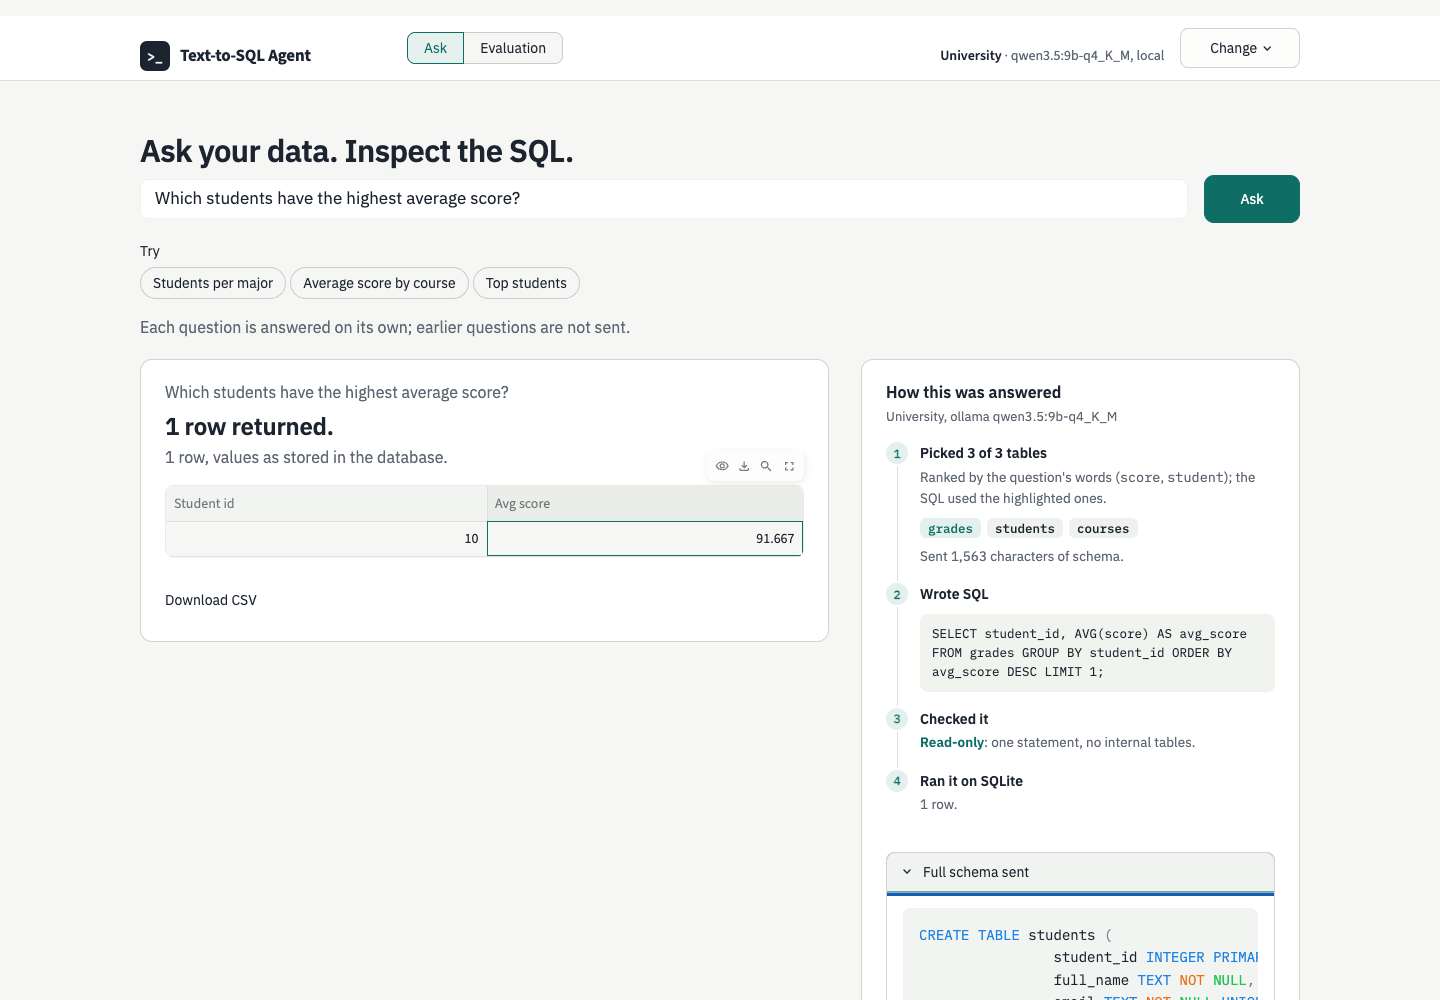
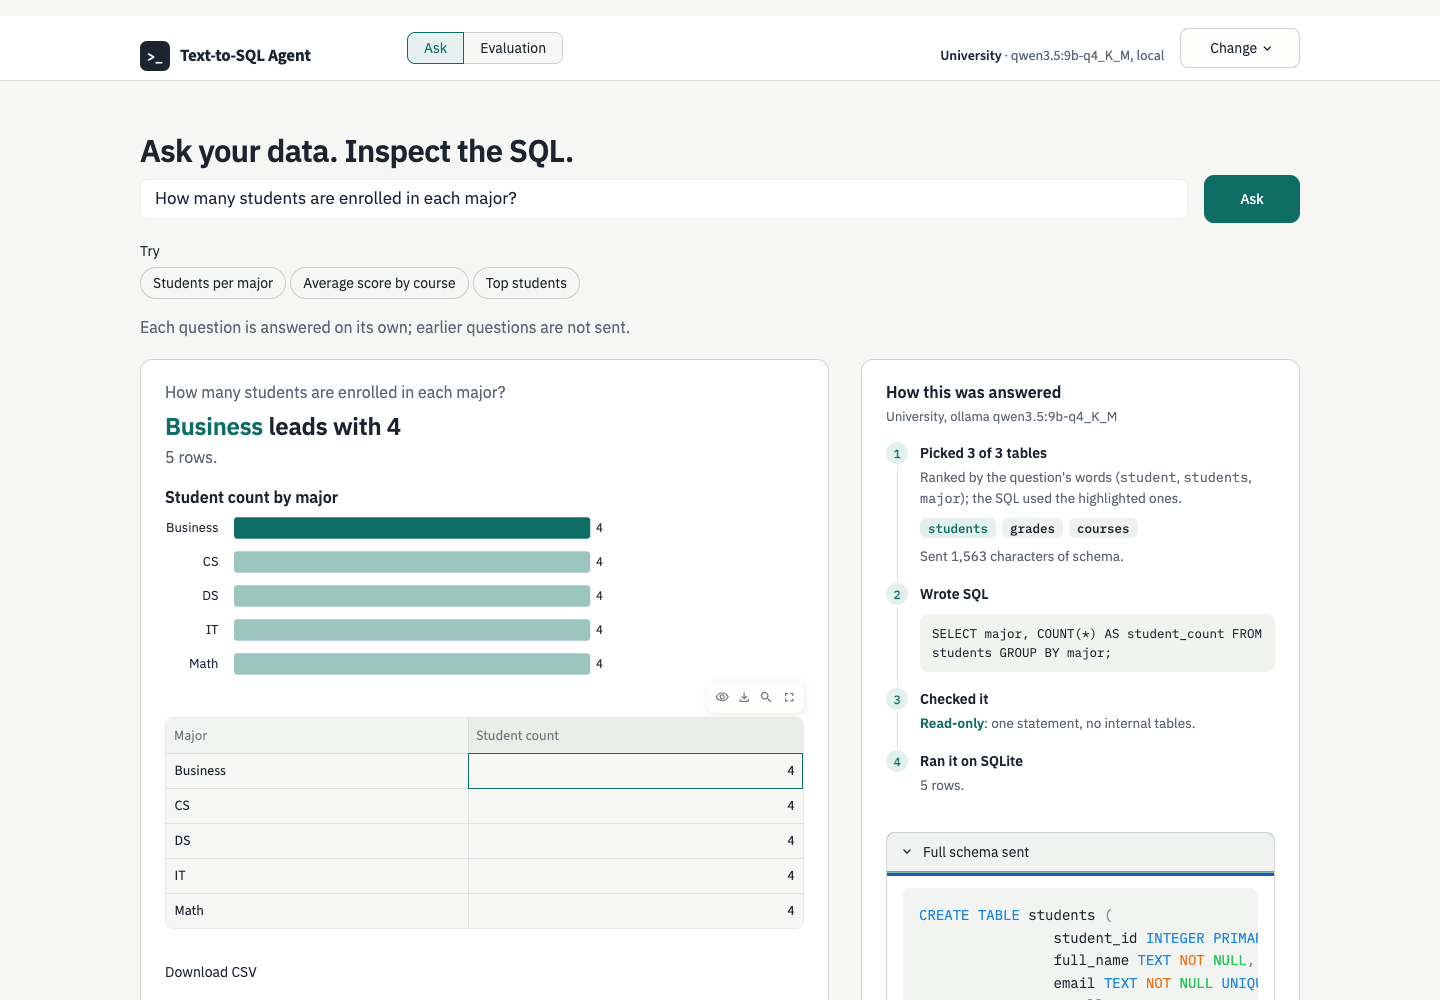
fix(ui,agents): Codex round 2: per-provider model state, literal review range, form submit
The model choice and custom name are stored per provider, so neither can reach
the other provider; an AppTest submits through the form and checks the provider
and model actually sent, in both directions. The review launcher validates the
range's commits, puts it into the prompt as literal text (the slash in the branch
name broke sed and left an empty prompt), aborts if the prompt is wrong, and was
tested with a stub CLI. The keyboard check types a question, tabs to the form's own
Ask (recorded as inside the form, not the top bar) and submits it.

diff --git a/scripts/ui_acceptance.py b/scripts/ui_acceptance.py
@@ -113,6 +113,9 @@ def _clipped(page: Page) -> list[str]:
     return list(page.evaluate(_CLIPPED))
 
 
+FORM_QUESTION = "How many students are enrolled in each major?"
+
+
 def _focused(page: Page) -> dict[str, object]:
     return dict(
         page.evaluate(
@@ -120,7 +123,9 @@ def _focused(page: Page) -> dict[str, object]:
             return {tag: e.tagName.toLowerCase(),
                     label: (e.getAttribute('aria-label') || e.innerText || e.value || '')
                         .trim().slice(0, 40),
-                    outline: s.outlineStyle !== 'none' && parseFloat(s.outlineWidth) > 0}; }"""
+                    outline: s.outlineStyle !== 'none' && parseFloat(s.outlineWidth) > 0,
+                    in_form: !!e.closest('.st-key-ask_box'),
+                    in_top_bar: !!e.closest('.st-key-topbar')}; }"""
         )
     )
 
@@ -179,7 +184,18 @@ def _keyboard_path(page: Page) -> dict[str, object]:
     page.get_by_text("How this was answered").first.wait_for(timeout=180_000)
     page.wait_for_timeout(2000)
     page.evaluate("document.activeElement && document.activeElement.blur()")
+    # Submit through the form itself: type a question, then Tab to the form's own Ask
+    # (not the top bar's Ask view button) and press Enter (Codex, 2026-10-22).
+    page.evaluate("document.activeElement && document.activeElement.blur()")
+    path["question_box"] = _tab_until(page, "Question", exact=True)
+    page.keyboard.press("Meta+A")
+    page.keyboard.type(FORM_QUESTION)
     path["ask_button"] = _tab_until(page, "Ask", exact=True)
+    page.keyboard.press("Enter")
+    page.locator("p.q", has_text=FORM_QUESTION).first.wait_for(timeout=180_000)
+    page.wait_for_timeout(2000)
+    path["form_answer_shown"] = True
+    page.evaluate("document.activeElement && document.activeElement.blur()")
     path["csv"] = _tab_until(page, "Download CSV")
     path["all_tables"] = _tab_until(page, "All selected tables")
     path["full_schema"] = _tab_until(page, "Full schema sent")

diff --git a/ui/secrets.py b/ui/secrets.py
@@ -27,17 +27,22 @@ def active_gemini_key(typed_key: str) -> str:
     )
 
 
+def model_keys(provider: str) -> tuple[str, str]:
+    """`(model choice key, custom name key)` in session state, one pair per provider."""
+    return f"sb_model_choice_{provider}", f"sb_custom_model_{provider}"
+
+
 def model_name_for_provider(provider: str) -> str:
     """Resolve the selected model name for `provider` from the connection panel's state.
 
-    A choice left over from the other provider is ignored: just after switching from Gemini
-    to Ollama, `sb_model_choice` still holds a Gemini name until the model box redraws,
-    and the page would otherwise ask Ollama for `gemini-2.5-flash` (found by the keyboard
-    acceptance check, 2026-10-22).
+    Both the model choice and the custom name are stored per provider (`model_keys`), so
+    switching provider can never carry the other provider's model, built-in or custom
+    (Codex, 2026-10-22). An unknown stored choice falls back to the provider's default.
     """
     default = backend.DEFAULT_MODEL_NAME if provider == "gemini" else backend.DEFAULT_OLLAMA_MODEL
     options = GEMINI_MODELS if provider == "gemini" else OLLAMA_MODELS
-    selected = st.session_state.get("sb_model_choice", "")
+    choice_key, custom_key = model_keys(provider)
+    selected = st.session_state.get(choice_key, "")
     if selected == "Custom":
-        return (st.session_state.get("sb_custom_model") or "").strip() or default
+        return (st.session_state.get(custom_key) or "").strip() or default
     return str(selected) if selected in options else default

diff --git a/tests/test_ui_app.py b/tests/test_ui_app.py
@@ -152,3 +152,30 @@ def test_switching_provider_does_not_carry_the_other_providers_model(
     conn = next(m.value for m in at.markdown if "class='conn'" in m.value)
     assert "gemini" not in conn
     assert "local" in conn
+
+
+@pytest.mark.parametrize(("first", "second"), [("gemini", "ollama"), ("ollama", "gemini")])
+def test_a_custom_model_never_reaches_the_other_provider(
+    no_server_keys: None, monkeypatch: pytest.MonkeyPatch, first: str, second: str
+) -> None:
+    """Codex, 2026-10-22: a custom name typed for one provider was sent to the other."""
+    from text_to_sql_agent import Answer, QueryResult
+
+    calls: list[tuple[str, str]] = []
+
+    def fake_run_query(prompt: str, **kwargs: object) -> Answer:
+        calls.append((str(kwargs["provider"]), str(kwargs["model_name"])))
+        return Answer(sql="", result=QueryResult([], [], error="x"), schema_text="", retrieval=None)
+
+    monkeypatch.setenv("GEMINI_API_KEY", "server-key")
+    monkeypatch.setattr("ui.chat._run_query", fake_run_query)
+    at = _app()
+    at.selectbox(key="sb_provider").select(first).run()
+    at.selectbox(key=f"sb_model_choice_{first}").select("Custom").run()
+    at.text_input(key=f"sb_custom_model_{first}").input("custom-for-review").run()
+    at.selectbox(key="sb_provider").select(second).run()
+    at.text_input(key="question_box").input("How many students?").run()
+    at.button(key="FormSubmitter:ask_form-Ask").click().run()
+
+    assert calls and calls[-1][0] == second
+    assert calls[-1][1] != "custom-for-review"

diff --git a/ui/connection.py b/ui/connection.py
@@ -23,7 +23,7 @@ from ui.constants import (
     SOURCE_UPLOAD_DB,
     SOURCES,
 )
-from ui.secrets import active_gemini_key, model_name_for_provider
+from ui.secrets import active_gemini_key, model_keys, model_name_for_provider
 from ui.settings import Settings
 from ui.uploads import active_db_path, redact_dsn
 
@@ -82,9 +82,12 @@ def _render_model() -> None:
         backend.DEFAULT_MODEL_NAME if provider == "gemini" else backend.DEFAULT_OLLAMA_MODEL
     )
     default_index = model_options.index(default_model) if default_model in model_options else 0
-    st.selectbox("Model", model_options, index=default_index, key="sb_model_choice")
-    if st.session_state.get("sb_model_choice") == "Custom":
-        st.text_input("Custom model name", value=default_model, key="sb_custom_model")
+    # Keyed per provider, so a choice or a custom name made for one provider can never be
+    # read for the other (Codex, 2026-10-22: a custom Gemini name reached Ollama).
+    choice_key, custom_key = model_keys(provider)
+    st.selectbox("Model", model_options, index=default_index, key=choice_key)
+    if st.session_state.get(choice_key) == "Custom":
+        st.text_input("Custom model name", value=default_model, key=custom_key)
 
     gemini_key = ""
     if provider == "gemini":
